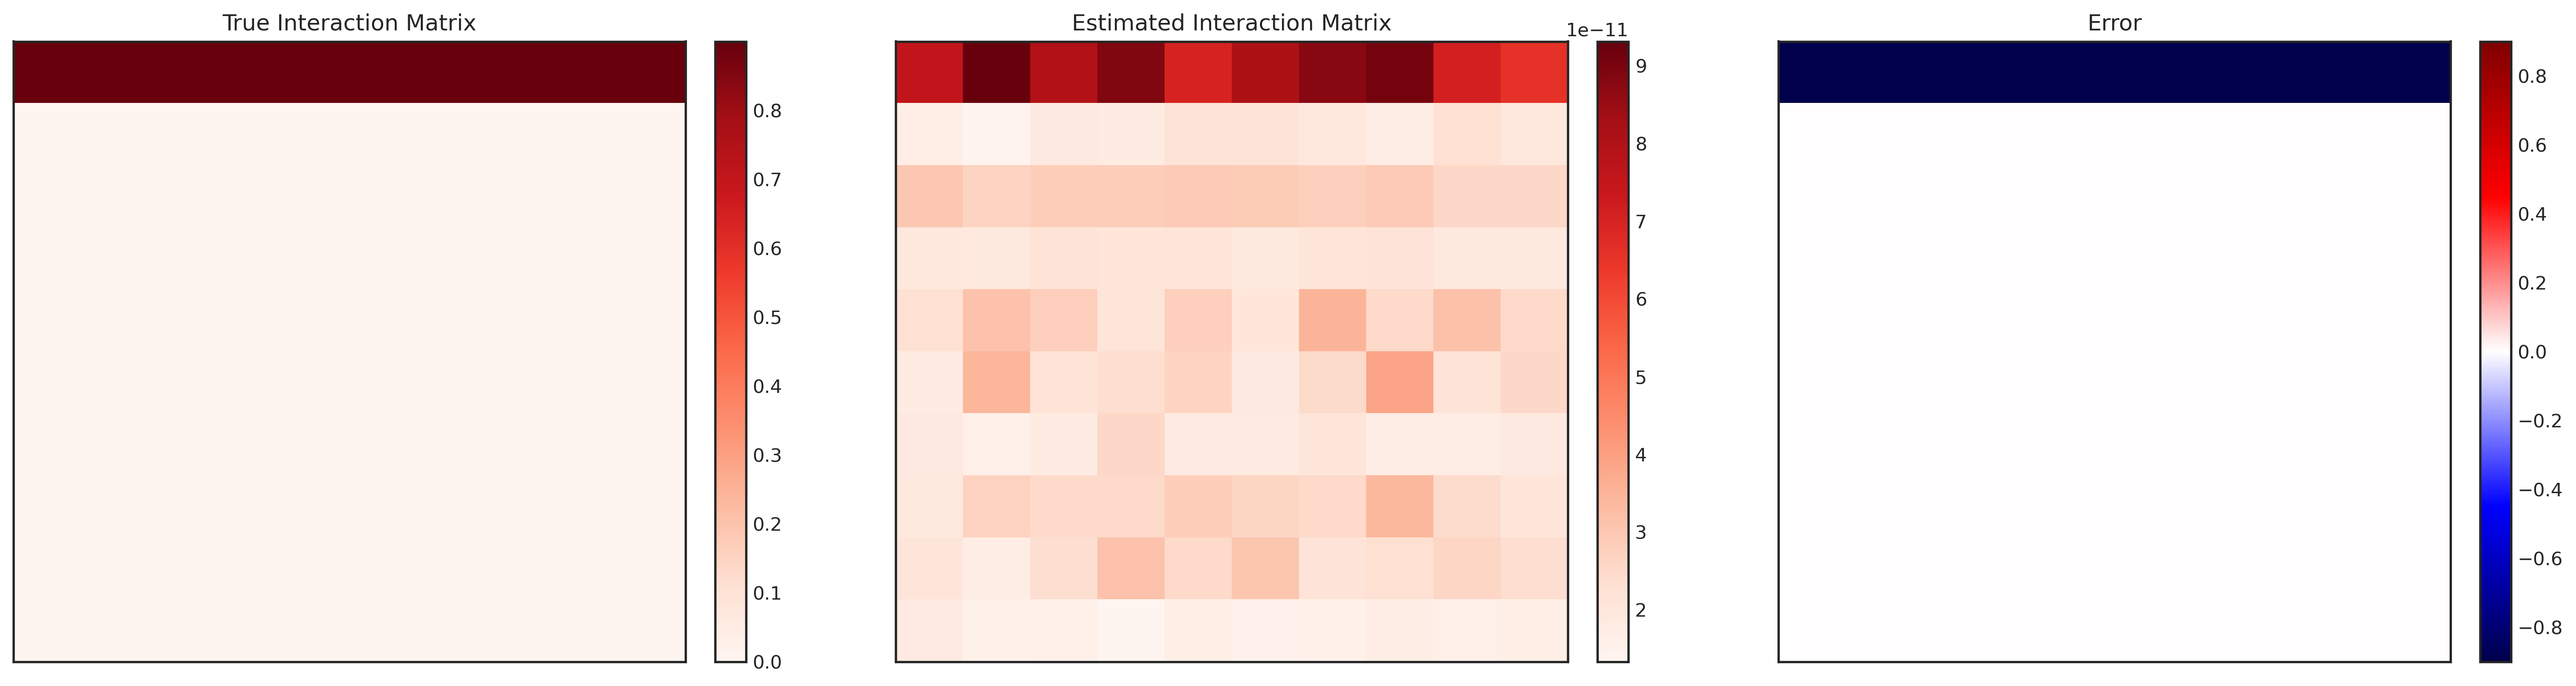
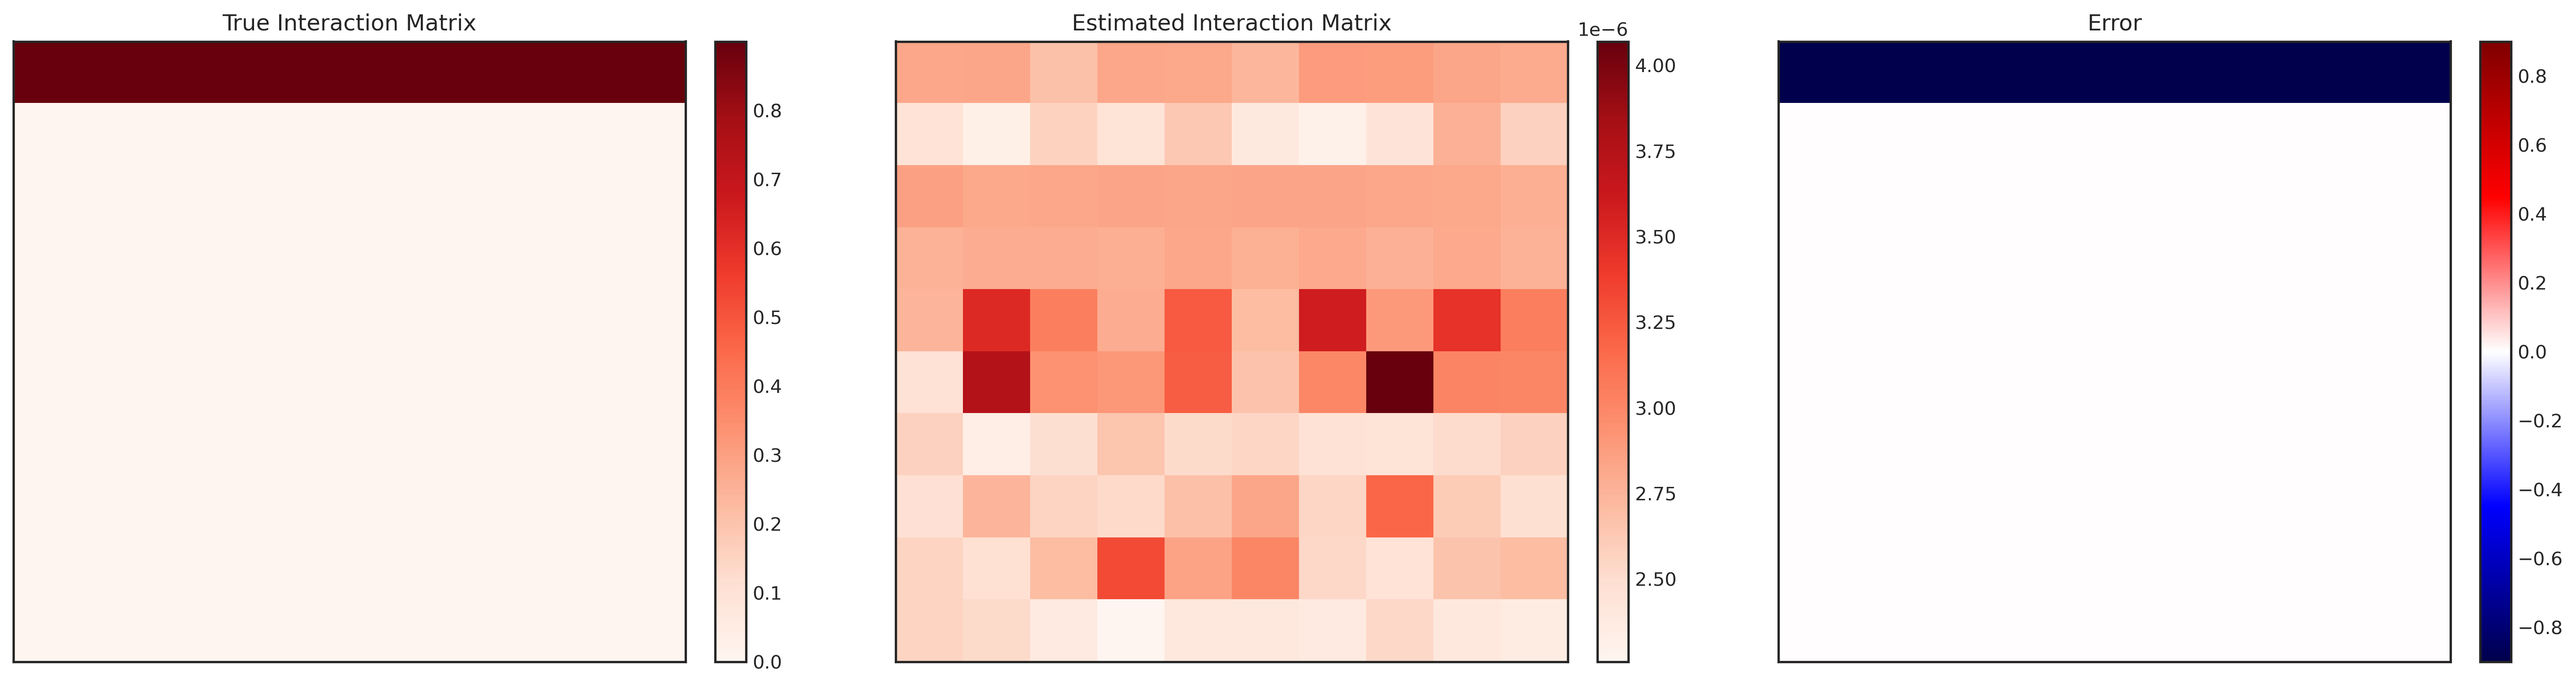
tried chain rule

Changed region(s): [[0.3425, 0.0307, 0.6539, 0.9811]]

diff --git a/src/hawkes/models/hawkes_base.py b/src/hawkes/models/hawkes_base.py
@@ -15,6 +15,7 @@ class HawkesNLL(torch.autograd.Function):
         mu: torch.Tensor,
         alpha: torch.Tensor,
         gamma: torch.Tensor,
+        transformation: config.Transformation,
         intensity_fun: typing.Callable,
         integrated_intensity_fun: typing.Callable,
         M: int,
@@ -72,8 +73,9 @@ class HawkesNLL(torch.autograd.Function):
             nll_neg_logsum -= torch.sum(torch.log(batch_intensity))
             intensity[batch_start : (batch_start + Nb)] = batch_intensity.squeeze()
 
+        ctx.trans = transformation
         ctx.M, ctx.K, ctx.T = M, K, T
-        ctx.save_for_backward(intensity, gamma, ti, mi)
+        ctx.save_for_backward(intensity, mu, alpha, gamma, ti, mi)
 
         return (nll_neg_logsum + nll_int) / N
 
@@ -93,6 +95,7 @@ class HawkesBase(torch.nn.Module, ABC):
         M: int,
         K: int,
         nll_function: HawkesNLL,
+        transformation: config.Transformation,
         device="cpu",
         debug_config=config.HawkesDebugConfig(),
     ):
@@ -108,6 +111,7 @@ class HawkesBase(torch.nn.Module, ABC):
         self.M = M
         self.K = K
         self._nll_function = nll_function
+        self._transformation = transformation
 
         self.device = device
         self.debug_config = debug_config
@@ -266,7 +270,8 @@ class HawkesBase(torch.nn.Module, ABC):
 
             # Calculate NLL across entire data and perform the backward pass
             nll = self.nll(T, ti, mi)
-            # nll_old = self._compute_nll(
+            nll.backward()
+            # nll = self._compute_nll(
             #     T, ti, mi, batch_size=fit_config.batch_size, compute_backward=True
             # )
             # assert torch.all(torch.isclose(nll, nll_old))
@@ -288,14 +293,17 @@ class HawkesBase(torch.nn.Module, ABC):
             else:
                 nuclear_norm = 0
 
+            (l1 + nuclear_norm).backward()
             loss = nll + l1 + nuclear_norm
-            loss.backward()
+            # loss.backward()
 
             # Check for NaN gradients
             for n, p in self.named_parameters():
+                # self.logger.error(f"Gradient of {n} is {p.grad}")
                 if torch.isnan(p.grad).any():
                     self.logger.error(f"Gradient of {n} is nan at epoch {epoch + 1}")
                     raise ValueError(f"Gradient of {n} is nan")
+            # exit(1)  # DEBUG: remove this
 
             optimizer.step()
             losses.append(loss.item())
@@ -365,6 +373,7 @@ class HawkesBase(torch.nn.Module, ABC):
             self.mu,
             self.alpha,
             self.gamma,
+            self._transformation,
             self.intensity_at_events,
             self.integrated_intensity,
             self.M,

diff --git a/src/hawkes/models/hawkes_full_rank.py b/src/hawkes/models/hawkes_full_rank.py
@@ -14,7 +14,7 @@ class HawkesFullRankNLL(HawkesNLL):
         # TODO: replace this with argument to forward pass and accomodate parametrized gamma in gradient
         GAMMA_PARAM = False
 
-        intensity, gamma, ti, mi = ctx.saved_tensors
+        intensity, mu, alpha, gamma, ti, mi = ctx.saved_tensors
         M, K, T = ctx.M, ctx.K, ctx.T
 
         dti = ti - torch.cat([ti[:, 0:1, :], ti[:, 0:-1, :]], dim=1)  # Shape: [1, N, 1]
@@ -59,11 +59,15 @@ class HawkesFullRankNLL(HawkesNLL):
 
         # Compute mu gradient; only depends on each node type's intensity
         mu_grad = (
-            torch.tensor(
-                [λp.reciprocal().sum() for λp in intensity_split], device=ti.device
+            (
+                torch.tensor(
+                    [λp.reciprocal().sum() for λp in intensity_split], device=ti.device
+                )
+                - T
             )
-            - T
-        )  # Shape: [M]
+            * ctx.trans.derivative(ctx.trans.inverse(mu))
+            * grad_output
+        )
 
         # Compute alpha gradient components using intensity and prefix matrices
         intensity_state_sum = torch.stack(
@@ -77,15 +81,15 @@ class HawkesFullRankNLL(HawkesNLL):
             [-torch.expm1(-gamma * (T - tiq)).sum(dim=1) for tiq in ti_split],
             dim=1,
         )  # Shape: [1, M, K]
-        alpha_grad = (intensity_state_sum - exp_decay_sum).permute(2, 0, 1)
+
+        alpha_grad = (
+            (intensity_state_sum - exp_decay_sum).permute(2, 0, 1)
+            * ctx.trans.derivative(ctx.trans.inverse(alpha))
+            * grad_output
+        )
         gamma_grad = None  # * grad_output
 
-        return (
-            None,
-            alpha_grad * grad_output,
-            mu_grad * grad_output,
-            gamma_grad,
-        ) + (None,) * 6
+        return (None, alpha_grad, mu_grad, gamma_grad) + (None,) * 7
 
 
 class HawkesFullRank(HawkesBase):
@@ -120,6 +124,7 @@ class HawkesFullRank(HawkesBase):
             M,
             K,
             nll_function=HawkesFullRankNLL,
+            transformation=transformation,
             device=self.device,
             debug_config=debug_config,
         )

diff --git a/src/hawkes/utils/config.py b/src/hawkes/utils/config.py
@@ -51,19 +51,27 @@ class Transformation:
     Attributes:
         forward: The vectorized transformation function
         inverse: The vectorized inverse of the transformation
+        derivative: The vectorized derivative of the transformation
     """
 
     forward: Callable[[torch.Tensor], torch.Tensor]
     inverse: Callable[[torch.Tensor], torch.Tensor]
+    derivative: Callable[[torch.Tensor], torch.Tensor]
 
 
-def _softplus_inv(y):
-    """Numerically stable softplus inverse that uses a linear approximation for large y"""
-    return torch.where(y > 20, y, torch.log(torch.expm1(y)))
+def _softplus_inv(x):
+    """Numerically stable softplus inverse that uses a linear approximation for large x"""
+
+    return torch.where(x > 20, x, x + torch.log(-torch.expm1(-x)))
 
 
-EXP = Transformation(forward=torch.exp, inverse=torch.log)
+EXP = Transformation(
+    forward=torch.exp,
+    inverse=torch.log,
+    derivative=torch.exp,
+)
 SOFTPLUS = Transformation(
     forward=torch.nn.functional.softplus,
     inverse=_softplus_inv,
+    derivative=torch.sigmoid,
 )
